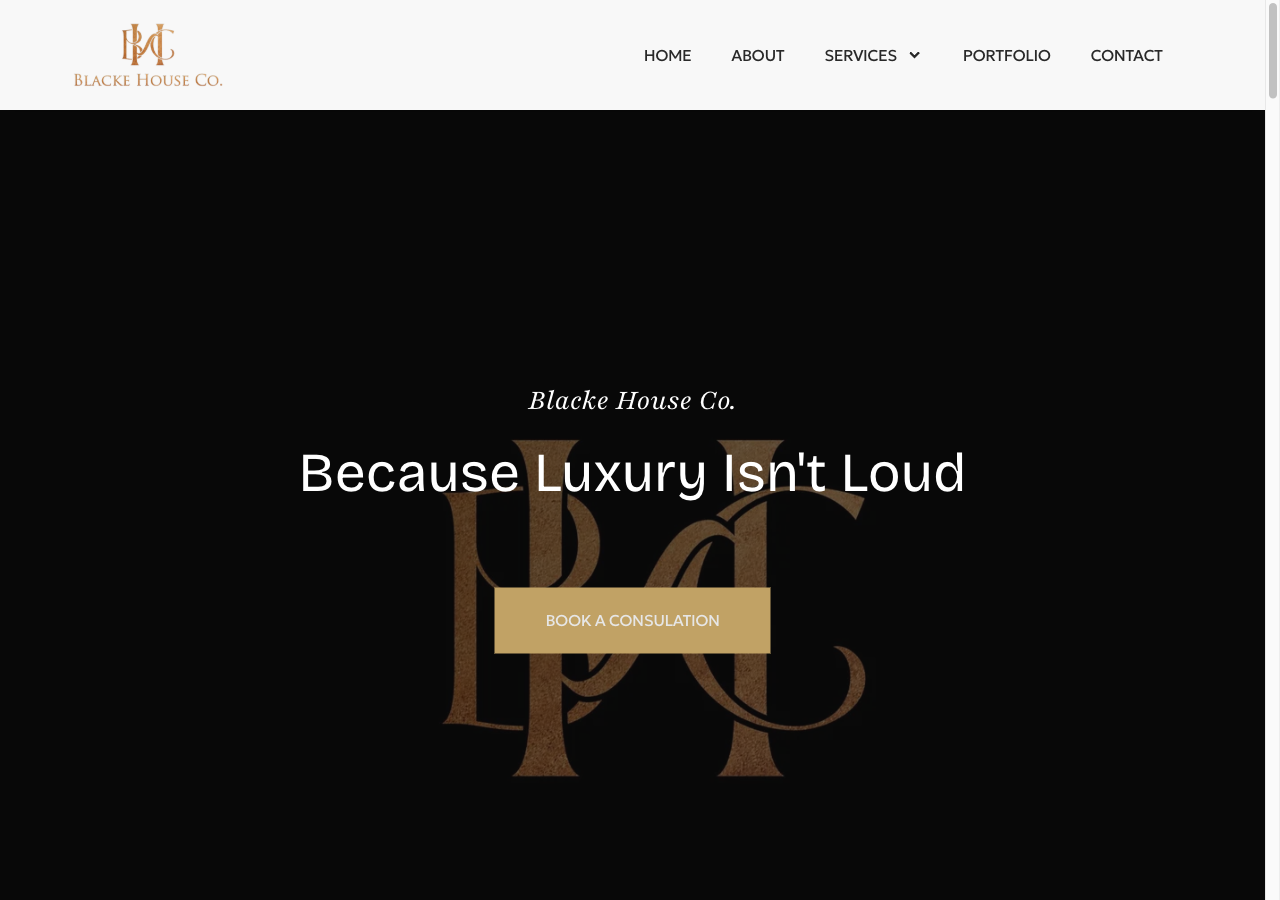
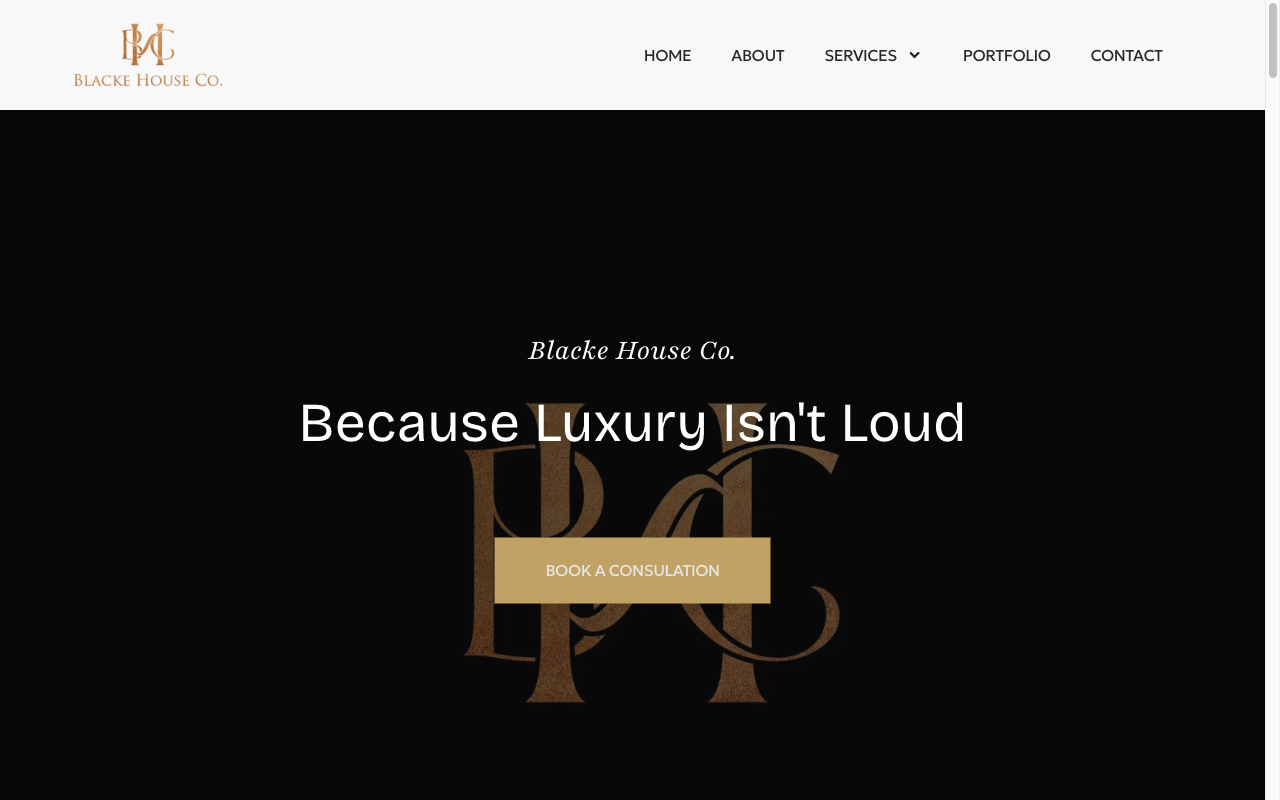
Replace CSS mockups with real website screenshots on homepage
Capture actual screenshots of Blacke House Co., Central Baptist
Church, and Dr. Arjun Kanuri sites. Replace colored HTML templates
in hero stacked cards and portfolio preview with real Image components.

Changed region(s): [[0.2188, 0.4062, 0.75, 0.875], [0.0, 0.0312, 1.0, 0.1562]]

diff --git a/src/app/page.tsx b/src/app/page.tsx
@@ -294,12 +294,7 @@ function Hero() {
                     <span className="text-[7px] text-gray-500">arjunkanurimd.com</span>
                   </div>
                 </div>
-                <div className="bg-gradient-to-br from-blue-600 to-cyan-600 px-3 py-3">
-                  <div className="text-[9px] font-bold text-white">Arjun Kanuri, MD</div>
-                  <div className="text-[7px] text-blue-200 mt-0.5">Board-certified plastic surgeon · DC/MD/VA</div>
-                  <div className="mt-2 bg-white text-blue-700 text-[7px] font-bold px-2 py-0.5 rounded-full inline-block">Book Consultation</div>
-                </div>
-                <div className="bg-white px-3 py-2 h-12" />
+                <Image src="/portfolio/arjun-kanuri.png" alt="Arjun Kanuri MD website by CalTech Web" width={600} height={375} className="w-full h-auto" />
               </div>
 
               {/* Card 2 (middle) - Central Baptist Church */}
@@ -317,24 +312,7 @@ function Hero() {
                     <span className="text-[7px] text-gray-500">centralbaptistpsl.com</span>
                   </div>
                 </div>
-                <div className="bg-gradient-to-br from-teal-700 to-emerald-600 px-3 py-3">
-                  <div className="text-[9px] font-bold text-white">Central Baptist Church</div>
-                  <div className="text-[7px] text-teal-200 mt-0.5">One Family, Called by Christ, Sent to Serve</div>
-                  <div className="mt-2 bg-white text-teal-700 text-[7px] font-bold px-2 py-0.5 rounded-full inline-block">Watch Live</div>
-                </div>
-                <div className="bg-white px-3 py-2">
-                  <div className="flex gap-1">
-                    <div className="flex-1 bg-teal-50 rounded-md py-1 text-center">
-                      <span className="text-[6px] text-teal-700 font-semibold">Watch</span>
-                    </div>
-                    <div className="flex-1 bg-teal-50 rounded-md py-1 text-center">
-                      <span className="text-[6px] text-teal-700 font-semibold">Give</span>
-                    </div>
-                    <div className="flex-1 bg-teal-50 rounded-md py-1 text-center">
-                      <span className="text-[6px] text-teal-700 font-semibold">Prayer</span>
-                    </div>
-                  </div>
-                </div>
+                <Image src="/portfolio/central-baptist-church.png" alt="Central Baptist Church website by CalTech Web" width={600} height={375} className="w-full h-auto" />
               </div>
 
               {/* Card 1 (front) - Blacke House Co. */}
@@ -342,7 +320,6 @@ function Hero() {
                 className="absolute top-14 left-[6%] w-[88%] rounded-2xl border border-white/25 shadow-2xl overflow-hidden"
                 style={{ transform: "rotate(0.5deg)" }}
               >
-                {/* Browser chrome */}
                 <div className="bg-gray-100 px-2.5 py-1.5 flex items-center gap-1.5">
                   <div className="flex gap-1">
                     <div className="w-2 h-2 rounded-full bg-red-400/80" />
@@ -354,45 +331,10 @@ function Hero() {
                     <span className="text-[7px] text-gray-600 font-medium">blackehouseco.com</span>
                   </div>
                 </div>
-                {/* Site nav */}
-                <div className="h-7 flex items-center justify-between px-3 bg-gradient-to-r from-stone-900 to-stone-800">
-                  <span className="text-white font-bold text-[8px] tracking-wide">Blacke House Co.</span>
-                  <div className="flex gap-2">
-                    <span className="text-white/80 text-[7px]">About</span>
-                    <span className="text-white/80 text-[7px]">Services</span>
-                    <span className="text-white/80 text-[7px]">Portfolio</span>
-                  </div>
-                </div>
-                {/* Hero */}
-                <div className="bg-gradient-to-br from-stone-900 to-stone-800 px-4 py-4">
-                  <div className="inline-flex items-center gap-1 bg-white/10 border border-white/15 px-1.5 py-0.5 rounded-full mb-1.5">
-                    <Star className="w-2 h-2 text-amber-400 fill-amber-400" />
-                    <span className="text-[7px] text-stone-300 font-medium">Charlotte, NC</span>
-                  </div>
-                  <div className="text-[11px] font-extrabold text-white leading-tight mb-1">Blacke House Co.</div>
-                  <div className="text-[8px] text-stone-400 mb-2.5">Because Luxury Isn&apos;t Loud</div>
-                  <div className="flex items-center gap-2">
-                    <span className="bg-amber-500 text-white text-[7px] font-bold px-2.5 py-1 rounded-full">Book a Consultation</span>
-                    <span className="border border-white/30 text-white/80 text-[7px] px-2 py-1 rounded-full">Portfolio</span>
-                  </div>
-                </div>
-                {/* Feature row */}
-                <div className="bg-white px-3 py-2.5">
-                  <div className="grid grid-cols-3 gap-1.5">
-                    {[
-                      { label: "Event Decor", color: "text-stone-700 bg-stone-50" },
-                      { label: "Event Planning", color: "text-amber-700 bg-amber-50" },
-                      { label: "Consultation", color: "text-stone-600 bg-stone-50" },
-                    ].map(({ label, color }) => (
-                      <div key={label} className={`${color} rounded-lg py-1.5 text-center`}>
-                        <div className="text-[7px] font-semibold leading-tight">{label}</div>
-                      </div>
-                    ))}
-                  </div>
-                </div>
+                <Image src="/portfolio/blacke-house-co.png" alt="Blacke House Co website by CalTech Web" width={600} height={375} className="w-full h-auto" />
               </div>
 
-              {/* +32% in giving floating badge */}
+              {/* +30% repeat bookings floating badge */}
               <div className="absolute -bottom-1 right-2 bg-amber-500 text-white rounded-full px-3 py-1.5 shadow-lg shadow-amber-500/30 z-10">
                 <span className="text-xs font-bold">+30% repeat bookings</span>
               </div>
@@ -1101,55 +1043,31 @@ function PortfolioPreview() {
       category: "Luxury Events",
       name: "Blacke House Co.",
       domain: "blackehouseco.com",
+      screenshot: "/portfolio/blacke-house-co.png",
       desc: "30% more repeat bookings with an online catalog and inquiry system.",
-      colorFrom: "#1c1917",
-      colorTo: "#292524",
-      accentBg: "bg-amber-500",
-      accentText: "text-amber-600",
       badge: "bg-amber-50 text-amber-700 border-amber-100",
-      navItems: ["About", "Services", "Portfolio"],
       stat: "+30% bookings",
       statColor: "text-amber-600",
-      headline: "Blacke House Co.",
-      subheadline: "Because Luxury Isn't Loud",
-      cta: "Book a Consultation",
-      features: ["Event Decor", "Planning", "Consultation"],
     },
     {
       category: "Church & Ministry",
       name: "Central Baptist Church",
       domain: "centralbaptistpsl.com",
+      screenshot: "/portfolio/central-baptist-church.png",
       desc: "32% increase in online giving with integrated donation platform.",
-      colorFrom: "#0f766e",
-      colorTo: "#059669",
-      accentBg: "bg-teal-600",
-      accentText: "text-teal-600",
       badge: "bg-teal-50 text-teal-700 border-teal-100",
-      navItems: ["Watch", "Give", "Prayer"],
       stat: "+32% in giving",
       statColor: "text-teal-600",
-      headline: "One Family, Called by Christ",
-      subheadline: "Sent to Serve - Port St. Lucie, FL",
-      cta: "Watch Live",
-      features: ["Watch", "Give", "Prayer"],
     },
     {
       category: "Healthcare Professional",
       name: "Dr. Arjun Kanuri",
       domain: "arjunkanurimd.com",
+      screenshot: "/portfolio/arjun-kanuri.png",
       desc: "40% more traffic. Doubled new-patient conversions. 9-year client.",
-      colorFrom: "#2563eb",
-      colorTo: "#0891b2",
-      accentBg: "bg-blue-600",
-      accentText: "text-blue-600",
       badge: "bg-blue-50 text-blue-700 border-blue-100",
-      navItems: ["About", "Reviews", "Contact"],
       stat: "+40% traffic",
       statColor: "text-blue-600",
-      headline: "Arjun Kanuri, MD",
-      subheadline: "Board-certified plastic surgeon · Serving DC/MD/VA",
-      cta: "Book Consultation",
-      features: ["About", "Reviews", "Gallery"],
     },
   ];
 
@@ -1172,7 +1090,7 @@ function PortfolioPreview() {
 
         {/* Site preview cards */}
         <div className="grid md:grid-cols-3 gap-6 mb-10">
-          {sites.map(({ category, name, domain, desc, colorFrom, colorTo, accentBg, accentText, badge, navItems, stat, statColor, headline, subheadline, cta, features }) => (
+          {sites.map(({ category, name, domain, screenshot, desc, badge, stat, statColor }) => (
             <div
               key={name}
               className="group bg-white rounded-2xl border border-gray-100 shadow-sm hover:shadow-xl hover:-translate-y-1 transition-all overflow-hidden"
@@ -1189,36 +1107,15 @@ function PortfolioPreview() {
                 </div>
               </div>
 
-              {/* Mock website preview */}
+              {/* Real website screenshot */}
               <div className="h-48 overflow-hidden">
-                {/* Site navbar */}
-                <div
-                  className="h-9 flex items-center justify-between px-3"
-                  style={{ background: `linear-gradient(to right, ${colorFrom}, ${colorTo})` }}
-                >
-                  <span className="text-white font-bold text-[9px] tracking-wide">{name}</span>
-                  <div className="flex gap-2.5">
-                    {navItems.map((item) => (
-                      <span key={item} className="text-white/80 text-[8px] font-medium">{item}</span>
-                    ))}
-                  </div>
-                </div>
-                {/* Hero content */}
-                <div className="bg-white px-3 pt-3 pb-2">
-                  <div className="text-[11px] font-extrabold text-gray-900 leading-tight mb-1">{headline}</div>
-                  <div className="text-[8.5px] text-gray-500 leading-snug mb-2.5">{subheadline}</div>
-                  <span className={`inline-block ${accentBg} text-white text-[8px] font-bold px-3 py-1 rounded-full`}>
-                    {cta}
-                  </span>
-                </div>
-                {/* Feature cards row */}
-                <div className="px-3 pt-1.5 flex gap-1.5">
-                  {features.map((feature) => (
-                    <div key={feature} className="flex-1 bg-gray-50 border border-gray-100 rounded-lg py-2 px-1 text-center">
-                      <div className={`text-[8px] font-semibold ${accentText} leading-tight`}>{feature}</div>
-                    </div>
-                  ))}
-                </div>
+                <Image
+                  src={screenshot}
+                  alt={`${name} website designed by CalTech Web`}
+                  width={600}
+                  height={375}
+                  className="w-full h-auto object-cover object-top"
+                />
               </div>
 
               {/* Card footer */}
